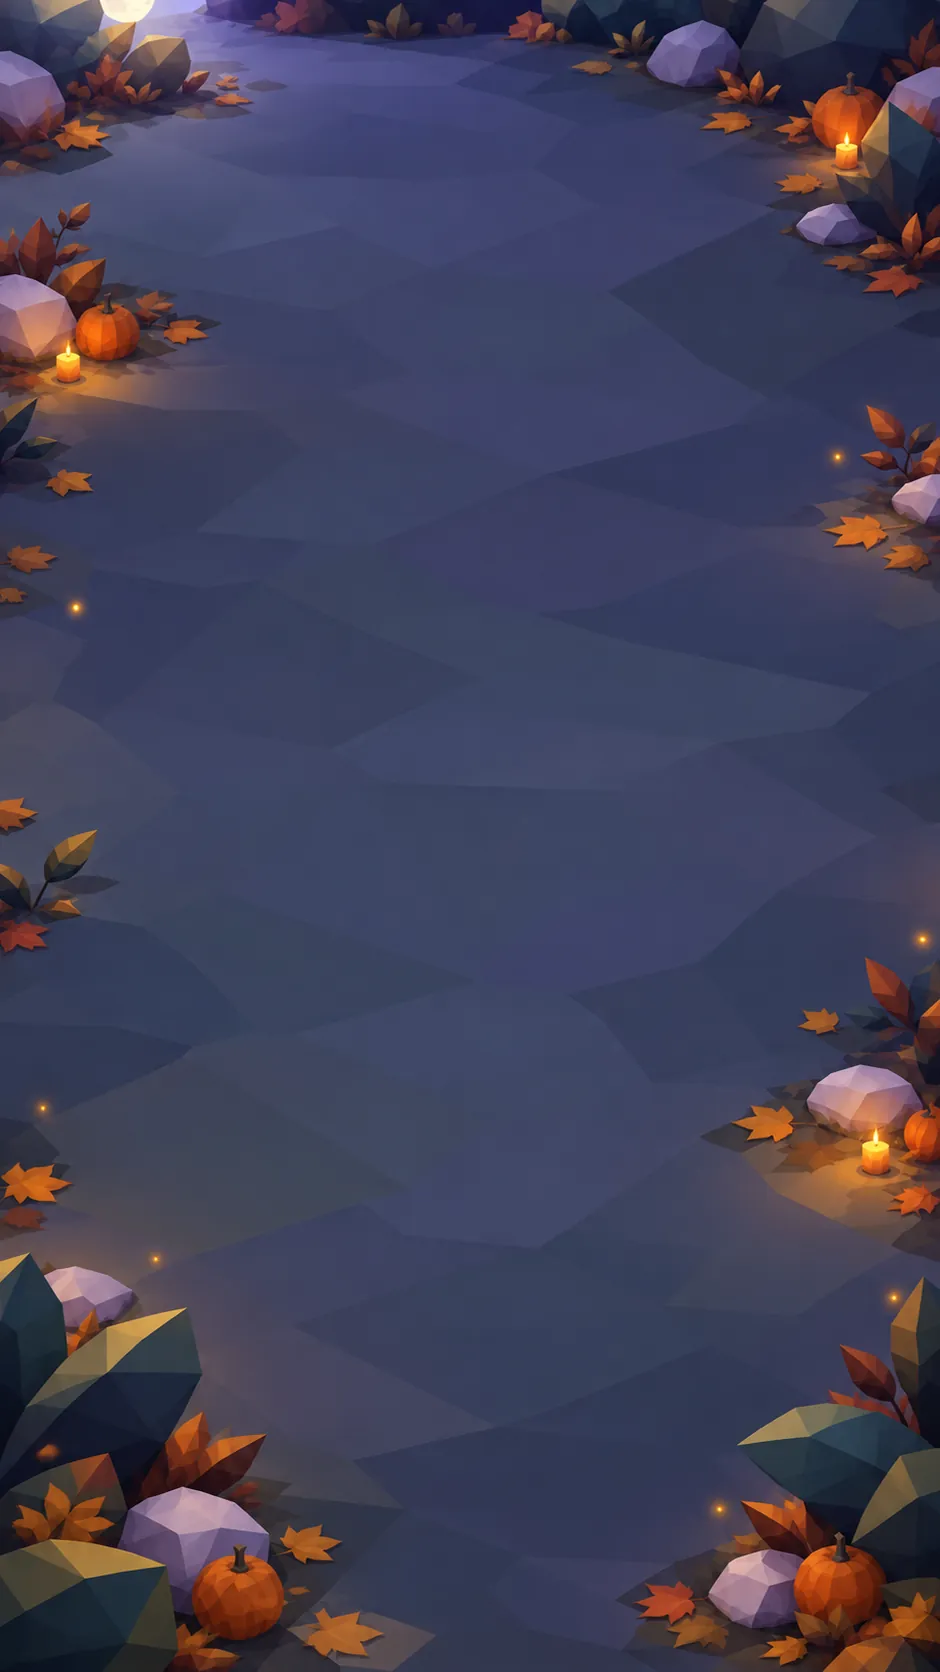
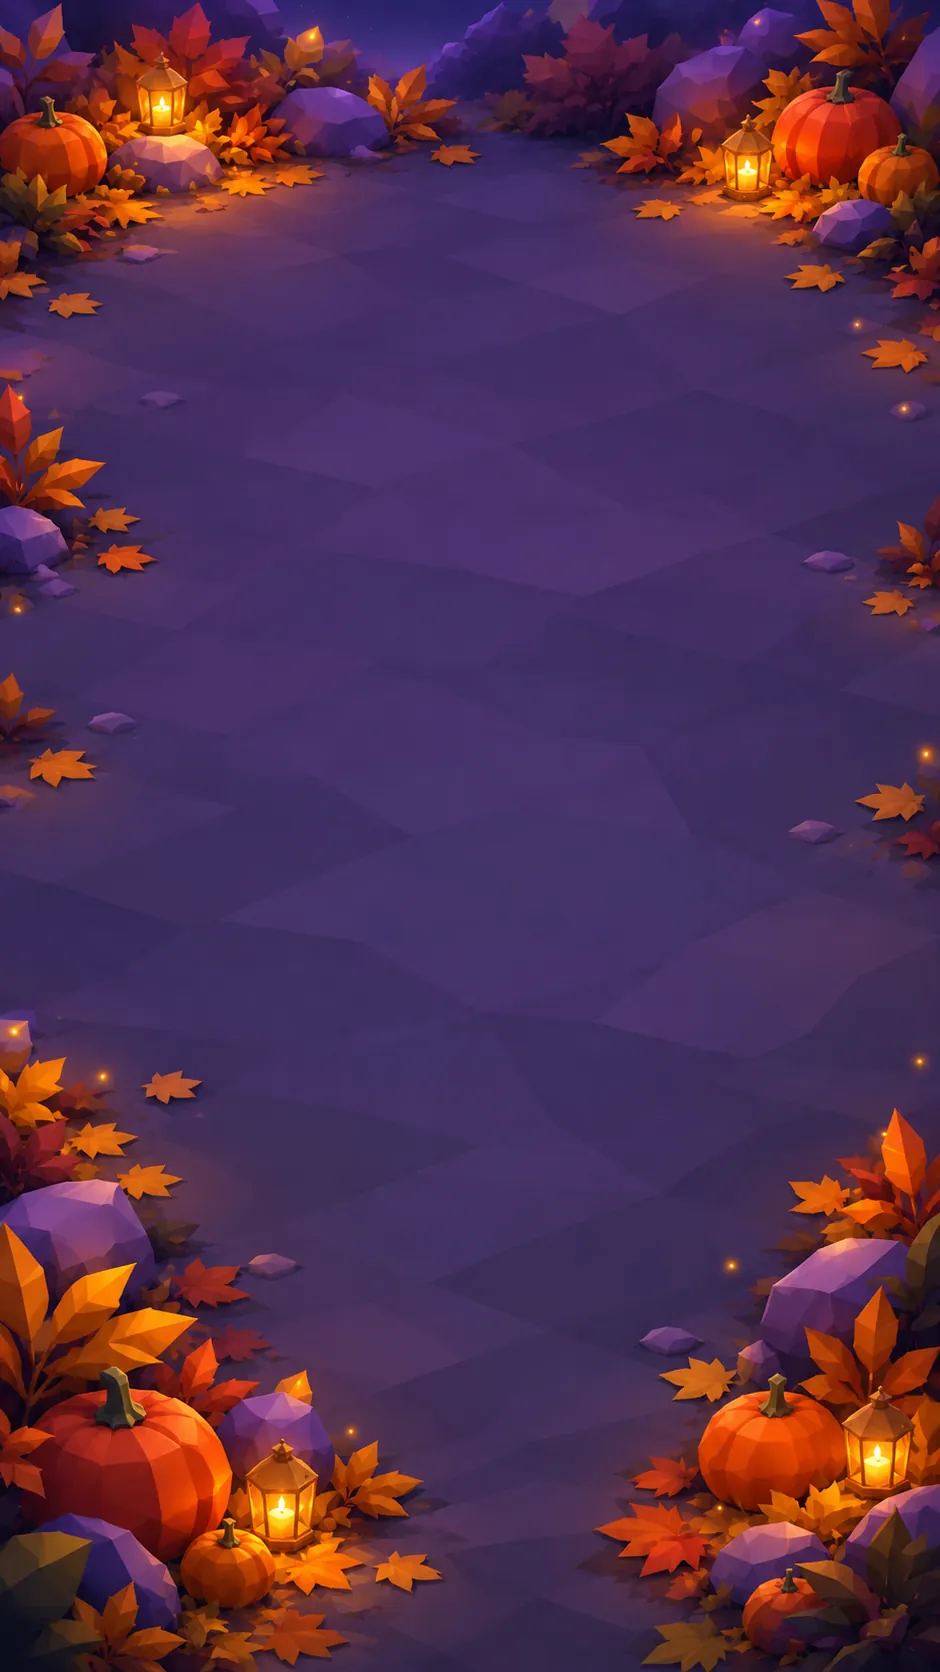
Trick or treat: big animated window (knocks, the door opens frame by frame, the costumed guest peeks out, candies fly from the basket, sparkles, reward); new night garden

diff --git a/src/screens/EventTrack.tsx b/src/screens/EventTrack.tsx
@@ -1,10 +1,11 @@
 /** v1.6 seasonal event card (Play and Tasks tabs) with the reward track window. */
-import React, { useRef, useState } from "react";
-import { Image, ImageSourcePropType, StyleSheet, View } from "react-native";
+import React, { useEffect, useRef, useState } from "react";
+import { Animated, Easing, Image, ImageSourcePropType, StyleSheet, View } from "react-native";
 import { t, tx } from "../i18n";
 import { claimable, TRACK, TrackReward } from "../logic/event";
-import { eventView, GameState, trickGuest } from "../logic/game";
-import { BeeSprite } from "../ui/BeeSprite";
+import { beeDisplayName, eventView, GameState, treatGuest, trickGuest } from "../logic/game";
+import { BeeSprite, Hover } from "../ui/BeeSprite";
+import { USE_NATIVE_DRIVER } from "../ui/anim";
 import { BOX_INFO } from "../logic/loot";
 import { ART } from "../ui/art";
 import { Bar, Bobbing, CloseBtn, GameButton, Overlay, Txt } from "../ui/components";
@@ -109,26 +110,182 @@ export function EventCard({ s, now, onClaim }: { s: GameState; now: number; onCl
   );
 }
 
-/** v1.6 trick or treat: once a day a guest in a costume knocks at the hive */
+/** v1.6 trick or treat: once a day a guest in a costume knocks at the hive. The banner opens the big window; the window keeps
+ *  its guest after the treat (trickGuest() is null by then) until it is closed. */
 export function TrickBanner({ s, now, onTreat }: { s: GameState; now: number; onTreat: (from: Pt | null) => void }) {
-  const ref = useRef<View>(null);
   const g = trickGuest(s, now);
-  if (!g) return null;
+  const [guest, setGuest] = useState<{ bee: string; skin: string } | null>(null);
+  const [visit, setVisit] = useState(0);
   return (
-    <View ref={ref} collapsable={false} style={[styles.trick, shadow]}>
-      {/* the guest knocks at the night hive door */}
-      <View style={{ width: 92, height: 92 }}>
-        <Image source={ART.trickDoor} style={{ position: "absolute", width: 92, height: 92 }} />
-        <Bobbing amp={3} style={{ position: "absolute", left: 22, top: 38 }}><BeeSprite id={g.bee} skin={g.skin} size={52} flap={false} /></Bobbing>
-      </View>
-      <View style={{ flex: 1 }}>
-        <Txt v="h3" color="#fff">{t("ev.trickTitle")}</Txt>
-        <Txt v="small" color={NIGHT.ghost}>{t("ev.trickSub")}</Txt>
-        <View style={{ flexDirection: "row", alignItems: "center", gap: 6, marginTop: 8 }}>
-          <Image source={ART.trickBasket} style={{ width: 40, height: 40 }} />
-          <GameButton small title={t("ev.treat")} color="honey" style={{ flex: 1 }} onPress={async () => onTreat(await centerOf(ref.current))} label={t("ev.treat")} />
+    <>
+      {g ? (
+        <View style={[styles.trick, shadow]}>
+          {/* the guest knocks at the night hive door */}
+          <View style={{ width: 92, height: 92 }}>
+            <Image source={ART.trickDoor} style={{ position: "absolute", width: 92, height: 92 }} />
+            <Bobbing amp={3} style={{ position: "absolute", left: 22, top: 38 }}><BeeSprite id={g.bee} skin={g.skin} size={52} flap={false} /></Bobbing>
+          </View>
+          <View style={{ flex: 1 }}>
+            <Txt v="h3" color="#fff">{t("ev.trickTitle")}</Txt>
+            <Txt v="small" color={NIGHT.ghost}>{t("ev.trickSub")}</Txt>
+            <View style={{ flexDirection: "row", alignItems: "center", gap: 6, marginTop: 8 }}>
+              <Image source={ART.trickBasket} style={{ width: 40, height: 40 }} />
+              <GameButton small title={t("ev.trickOpen")} color="honey" style={{ flex: 1 }} onPress={() => { setGuest(g); setVisit((v) => v + 1); }} label={t("ev.trickOpen")} />
+            </View>
+          </View>
         </View>
+      ) : null}
+      <Overlay visible={!!guest} onClose={() => setGuest(null)}>
+        {guest ? <TrickWindow key={visit} s={s} now={now} guest={guest} onTreat={onTreat} onClose={() => setGuest(null)} /> : null}
+      </Overlay>
+    </>
+  );
+}
+
+const TRICK = {
+  door: [0, 1, 2, 3, 4, 5, 6, 7].map((i) => [
+    require("../../assets/art/halloween/trick_door_0.webp"), require("../../assets/art/halloween/trick_door_1.webp"),
+    require("../../assets/art/halloween/trick_door_2.webp"), require("../../assets/art/halloween/trick_door_3.webp"),
+    require("../../assets/art/halloween/trick_door_4.webp"), require("../../assets/art/halloween/trick_door_5.webp"),
+    require("../../assets/art/halloween/trick_door_6.webp"), require("../../assets/art/halloween/trick_door_7.webp"),
+  ][i]),
+  glow: require("../../assets/art/halloween/trick_glow.webp"),
+  bg: require("../../assets/art/halloween/trick_bg.webp"),
+  full: require("../../assets/art/halloween/trick_basket_full.webp"),
+  empty: require("../../assets/art/halloween/trick_basket_empty.webp"),
+  sparkle: require("../../assets/art/halloween/trick_sparkle.webp"),
+  candy: [
+    require("../../assets/art/halloween/trick_candy_1.webp"), require("../../assets/art/halloween/trick_candy_2.webp"),
+    require("../../assets/art/halloween/trick_candy_3.webp"), require("../../assets/art/halloween/trick_candy_4.webp"),
+    require("../../assets/art/halloween/trick_candy_5.webp"), require("../../assets/art/halloween/trick_candy_6.webp"),
+  ],
+};
+/** door canvas (1024²) layout from design/2d/halloween/trick/door_layout.json */
+const APERTURE = { x: 337, y: 332, w: 345, h: 428 };
+type Phase = "knock" | "open" | "guest" | "treat" | "done";
+
+/** knock knock → the door opens frame by frame → the guest peeks out → treat: candies fly from the basket, sparkles, reward */
+function TrickWindow({ s, now, guest, onTreat, onClose }: { s: GameState; now: number; guest: { bee: string; skin: string }; onTreat: (from: Pt | null) => void; onClose: () => void }) {
+  const [W, setW] = useState(0);
+  const [phase, setPhase] = useState<Phase>("knock");
+  const [frame, setFrame] = useState(0);
+  const guestRef = useRef<View>(null);
+  const shake = useRef(new Animated.Value(0)).current;
+  const rise = useRef(new Animated.Value(0)).current;
+  const glow = useRef(new Animated.Value(0)).current;
+  const burst = useRef(new Animated.Value(0)).current;
+  const fly = useRef(TRICK.candy.map(() => new Animated.Value(0))).current;
+  // read the reward up front (treatGuest is pure); App commits it in onTreat
+  const reward = useRef(treatGuest(s, now)).current;
+  const D = W * 0.84, H = W * 0.92, k = D / 1024;
+  const doorL = (W - D) / 2, doorT = H - D * 0.99;
+  const ap = { left: doorL + APERTURE.x * k, top: doorT + APERTURE.y * k, width: APERTURE.w * k, height: APERTURE.h * k };
+  const bs = APERTURE.w * k * 1.05; // guest size
+  const basket = W * 0.3;
+  const from = { x: basket * 0.5, y: H - basket * 0.55 }, to = { x: ap.left + ap.width / 2, y: ap.top + ap.height - bs * 0.45 };
+
+  useEffect(() => {
+    if (!W) return;
+    const knock = (d: number) => Animated.sequence([
+      Animated.delay(d),
+      Animated.timing(shake, { toValue: 1, duration: 45, useNativeDriver: USE_NATIVE_DRIVER }),
+      Animated.timing(shake, { toValue: -1, duration: 70, useNativeDriver: USE_NATIVE_DRIVER }),
+      Animated.timing(shake, { toValue: 0, duration: 45, useNativeDriver: USE_NATIVE_DRIVER }),
+    ]);
+    let timer: ReturnType<typeof setInterval> | null = null;
+    Animated.sequence([knock(250), knock(130), knock(130), Animated.delay(220)]).start(({ finished }) => {
+      if (!finished) return;
+      setPhase("open");
+      let f = 0;
+      timer = setInterval(() => {
+        f++;
+        setFrame(f);
+        if (f < 7) return;
+        if (timer) clearInterval(timer);
+        setPhase("guest");
+        Animated.spring(rise, { toValue: 1, useNativeDriver: USE_NATIVE_DRIVER, speed: 7, bounciness: 9 }).start();
+        Animated.loop(Animated.sequence([
+          Animated.timing(glow, { toValue: 1, duration: 1100, useNativeDriver: USE_NATIVE_DRIVER }),
+          Animated.timing(glow, { toValue: 0, duration: 1100, useNativeDriver: USE_NATIVE_DRIVER }),
+        ])).start();
+      }, 75);
+    });
+    return () => { if (timer) clearInterval(timer); shake.stopAnimation(); glow.stopAnimation(); };
+  }, [W, shake, rise, glow]);
+
+  const treat = () => {
+    if (phase !== "guest") return;
+    setPhase("treat");
+    Animated.stagger(80, fly.map((v) => Animated.timing(v, { toValue: 1, duration: 620, easing: Easing.out(Easing.quad), useNativeDriver: USE_NATIVE_DRIVER }))).start(async () => {
+      Animated.timing(burst, { toValue: 1, duration: 700, easing: Easing.out(Easing.cubic), useNativeDriver: USE_NATIVE_DRIVER }).start();
+      setPhase("done");
+      onTreat(await centerOf(guestRef.current));
+    });
+  };
+
+  const look = reward ? rewardLook(reward.reward) : null;
+  const name = beeDisplayName(s, guest.bee);
+  return (
+    <View>
+      <CloseBtn onPress={onClose} />
+      <Txt v="h2" style={{ paddingRight: 44 }}>{t("ev.trickTitle")}</Txt>
+      <Txt v="small" color={K.fg("#8A5200")} style={{ marginBottom: 10 }}>
+        {phase === "done" ? t("ev.trickThanks", { name }) : phase === "guest" || phase === "treat" ? t("ev.trickGuest", { name, costume: tx(`item.${guest.skin}`) }) : t("ev.trickKnock")}
+      </Txt>
+      <View style={[styles.scene, { height: W ? H : 300 }]} onLayout={(e) => setW(e.nativeEvent.layout.width)}>
+        <Image source={TRICK.bg} resizeMode="cover" style={{ position: "absolute", width: "100%", height: "100%" }} />
+        {W ? (
+          <>
+            <Animated.View style={{ position: "absolute", left: doorL, top: doorT, width: D, height: D, transform: [{ translateX: shake.interpolate({ inputRange: [-1, 1], outputRange: [-5, 5] }) }, { rotate: shake.interpolate({ inputRange: [-1, 1], outputRange: ["-1deg", "1deg"] }) }] }}>
+              {TRICK.door.map((src, i) => <Image key={i} source={src} style={{ position: "absolute", width: D, height: D, opacity: i === frame ? 1 : 0 }} />)}
+            </Animated.View>
+            {/* the guest, clipped to the doorway (top corners rounded like the hexagonal opening) */}
+            <View style={[styles.aperture, ap, { borderTopLeftRadius: ap.width * 0.4, borderTopRightRadius: ap.width * 0.4 }]} pointerEvents="none">
+              <Animated.View ref={guestRef} collapsable={false} style={{ position: "absolute", left: (ap.width - bs) / 2, top: ap.height - bs * 0.86, transform: [{ translateY: rise.interpolate({ inputRange: [0, 1], outputRange: [bs, 0] }) }] }}>
+                {phase !== "knock" && phase !== "open" ? (
+                  <Hover amp={4} sway={3} period={1500}><BeeSprite id={guest.bee} skin={guest.skin} size={bs} turn={0.5} /></Hover>
+                ) : null}
+              </Animated.View>
+            </View>
+            <Animated.Image source={TRICK.glow} style={{ position: "absolute", left: doorL, top: doorT, width: D, height: D, opacity: glow.interpolate({ inputRange: [0, 1], outputRange: [0.15, 0.3] }) }} />
+            {phase === "knock" ? <Txt v="h2" color="#fff" style={[styles.knock, { top: doorT + D * 0.18 }]}>{t("ev.knock")}</Txt> : null}
+            <Image source={phase === "done" ? TRICK.empty : TRICK.full} style={{ position: "absolute", left: 0, top: H - basket, width: basket, height: basket }} />
+            {fly.map((v, i) => {
+              const dx = to.x - from.x + (i - 2.5) * 10, dy = to.y - from.y;
+              const c = W * 0.16;
+              return (
+                <Animated.Image key={i} source={TRICK.candy[i]} style={{
+                  position: "absolute", left: from.x - c / 2, top: from.y - c / 2, width: c, height: c,
+                  opacity: v.interpolate({ inputRange: [0, 0.02, 0.85, 1], outputRange: [0, 1, 1, 0] }),
+                  transform: [
+                    { translateX: v.interpolate({ inputRange: [0, 1], outputRange: [0, dx] }) },
+                    { translateY: v.interpolate({ inputRange: [0, 0.5, 1], outputRange: [0, dy / 2 - H * 0.28 - i * 4, dy] }) },
+                    { rotate: v.interpolate({ inputRange: [0, 1], outputRange: ["0deg", `${i % 2 ? -300 : 300}deg`] }) },
+                    { scale: v.interpolate({ inputRange: [0, 0.5, 1], outputRange: [0.7, 1.1, 0.5] }) },
+                  ],
+                }} />
+              );
+            })}
+            <Animated.Image source={TRICK.sparkle} style={{
+              position: "absolute", left: to.x - W * 0.3, top: to.y - W * 0.3, width: W * 0.6, height: W * 0.6,
+              opacity: burst.interpolate({ inputRange: [0, 0.1, 1], outputRange: [0, 1, 0] }),
+              transform: [{ scale: burst.interpolate({ inputRange: [0, 1], outputRange: [0.4, 1.25] }) }],
+            }} />
+          </>
+        ) : null}
       </View>
+      {phase === "done" && reward && look ? (
+        <View style={styles.trickRew}>
+          <View style={styles.rewChip}><Image source={ART.point} style={{ width: 22, height: 22 }} /><Txt v="h3">+{reward.points}</Txt></View>
+          <View style={styles.rewChip}>
+            {look.icon ? <Image source={look.icon} style={{ width: 24, height: 24 }} resizeMode="contain" /> : null}
+            <Txt v="h3" numberOfLines={1}>{look.title}</Txt>
+          </View>
+        </View>
+      ) : null}
+      {phase === "done"
+        ? <GameButton title={t("ev.trickDone")} color="green" onPress={onClose} style={{ marginTop: 12 }} />
+        : <GameButton title={t("ev.treat")} icon={TRICK.full} color="honey" disabled={phase !== "guest"} onPress={treat} style={{ marginTop: 12 }} label={t("ev.treat")} />}
     </View>
   );
 }
@@ -190,6 +347,11 @@ const styles = themed(() => StyleSheet.create({
   trackHead: { height: 104, borderRadius: 20, overflow: "hidden", padding: 14, justifyContent: "flex-end", backgroundColor: NIGHT.bg },
   trackHeadImg: { position: "absolute", left: 0, top: 0, width: "100%", height: "100%", opacity: 0.75 },
   trick: { flexDirection: "row", alignItems: "center", gap: 12, backgroundColor: NIGHT.bg, borderRadius: 22, padding: 12, borderWidth: 2, borderColor: NIGHT.card },
+  scene: { borderRadius: 22, overflow: "hidden", backgroundColor: NIGHT.bg },
+  aperture: { position: "absolute", overflow: "hidden" },
+  knock: { position: "absolute", left: 0, right: 0, textAlign: "center", textShadowColor: "rgba(0,0,0,0.6)", textShadowRadius: 8 },
+  trickRew: { flexDirection: "row", flexWrap: "wrap", justifyContent: "center", gap: 8, marginTop: 12 },
+  rewChip: { flexDirection: "row", alignItems: "center", gap: 6, maxWidth: "100%", backgroundColor: K.bg("#FFF1D4"), borderRadius: 14, paddingHorizontal: 12, paddingVertical: 6 },
   introHead: { height: 120, borderRadius: 18, overflow: "hidden", marginTop: 4, marginRight: 44 },
   stepReady: { borderColor: K.bd("#4CC777"), backgroundColor: K.bg("#E4F7EA") },
 }));

diff --git a/src/i18n/strings/event.ts b/src/i18n/strings/event.ts
@@ -39,6 +39,12 @@ export const event = {
   "fl.best": { en: "Record: {n}", uk: "Рекорд: {n}", ru: "Рекорд: {n}" },
   "ev.trickTitle": { en: "Knock knock! Trick or treat?", uk: "Тук-тук! Цукерки чи капость?", ru: "Тук-тук! Гадость или сладость?" },
   "ev.trickSub": { en: "A guest in a costume came to the hive · +5 event points", uk: "До вулика прийшов гість у костюмі · +5 очок події", ru: "К улью пришёл гость в костюме · +5 очков ивента" },
+  "ev.trickOpen": { en: "Open the door", uk: "Відчинити", ru: "Открыть дверь" },
+  "ev.trickKnock": { en: "Someone is knocking at the hive door…", uk: "Хтось стукає у двері вулика…", ru: "Кто-то стучит в дверь улья…" },
+  "ev.knock": { en: "Knock knock!", uk: "Тук-тук!", ru: "Тук-тук!" },
+  "ev.trickGuest": { en: "{name} dressed up: {costume}. Treat the guest!", uk: "{name} у костюмі: {costume}. Пригости гостя!", ru: "{name} в костюме: {costume}. Угости гостя!" },
+  "ev.trickThanks": { en: "{name} says thank you! Come back tomorrow for a new guest.", uk: "{name} дякує! Завтра прийде новий гість.", ru: "{name} говорит спасибо! Завтра придёт новый гость." },
+  "ev.trickDone": { en: "Great!", uk: "Чудово!", ru: "Отлично!" },
   "ev.treat": { en: "Treat", uk: "Пригостити", ru: "Угостить" },
   "st.uiStyle": { en: "Interface style", uk: "Стиль інтерфейсу", ru: "Стиль интерфейса" },
   "st.uiStyleSub": { en: "Auto switches to the violet night look during Pumpkin Night and back after it", uk: "Авто вмикає фіолетовий нічний вигляд на Гарбузову ніч і повертає звичайний після неї", ru: "Авто включает фиолетовый ночной вид на Тыквенную ночь и возвращает обычный после неё" },

diff --git a/scripts/import_halloween_art.py b/scripts/import_halloween_art.py
@@ -10,7 +10,7 @@ M = {  # target: (source, size)
     "pumpkin_bud.webp": ("garden/pumpkin_bud.png", (249, 249)),
     "pumpkin_bloom.webp": ("garden/pumpkin_bloom.png", (249, 249)),
     "hive_bg_night.webp": ("env/hive_bg_night.png", (940, 1672)),
-    "garden_bg_night.webp": ("env/garden_bg_night.png", (940, 1672)),
+    "garden_bg_night.webp": ("env/garden_bg_night_v2.png", (940, 1672)),
     "hive_bg_autumn.webp": ("env/hive_bg_autumn.png", (940, 1672)),
     "garden_bg_autumn.webp": ("env/garden_bg_autumn.png", (940, 1672)),
     "fl_sky.webp": ("flight/bg_sky.png", (1200, 675)),
@@ -31,6 +31,14 @@ M = {  # target: (source, size)
     "event_header.webp": ("ui/event_header.png", (1000, 400)),
     "trick_door.webp": ("trick/door.png", (480, 480)),
     "trick_basket.webp": ("trick/basket.png", (192, 192)),
+    # trick or treat window: the 8 door frames share one canvas (never trim them one by one, see trick/README.ru.md)
+    **{f"trick_door_{i}.webp": (f"trick/door_open_0{i}.png", (600, 600)) for i in range(8)},
+    "trick_glow.webp": ("trick/door_glow.png", (400, 400)),
+    "trick_bg.webp": ("trick/trick_bg.png", (900, 675)),
+    "trick_basket_full.webp": ("trick/basket_full.png", (256, 256)),
+    "trick_basket_empty.webp": ("trick/basket_empty.png", (256, 256)),
+    "trick_sparkle.webp": ("trick/sparkle_burst.png", (320, 320)),
+    **{f"trick_candy_{i}.webp": (f"trick/candy_{i}.png", (112, 112)) for i in range(1, 7)},
     **{f"deco_jack{i}.webp": (f"deco/deco_jack_{i}.png", (160, 250)) for i in (1, 2, 3, 4)},
 }
 os.makedirs(A, exist_ok=True)
